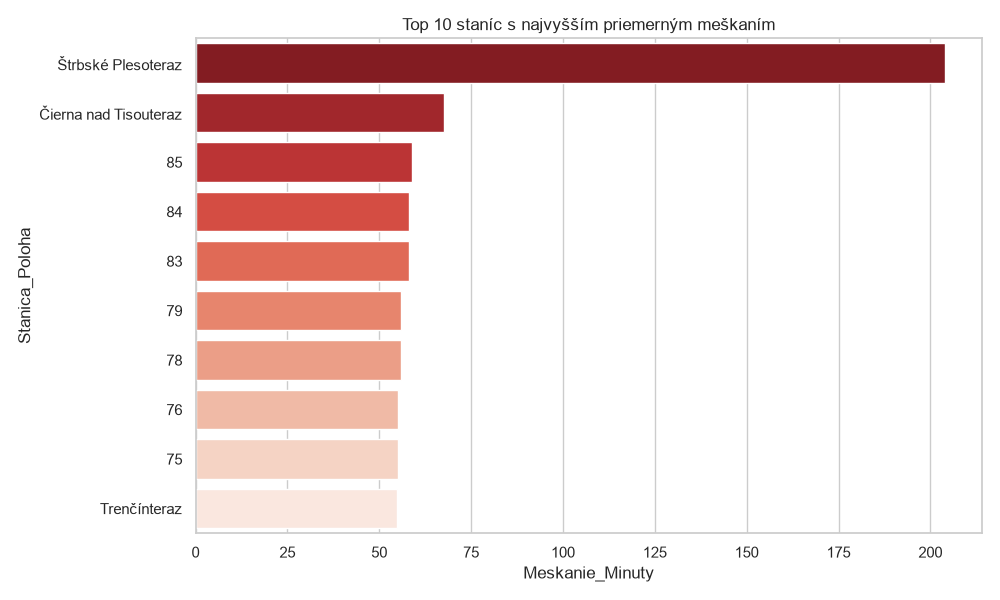
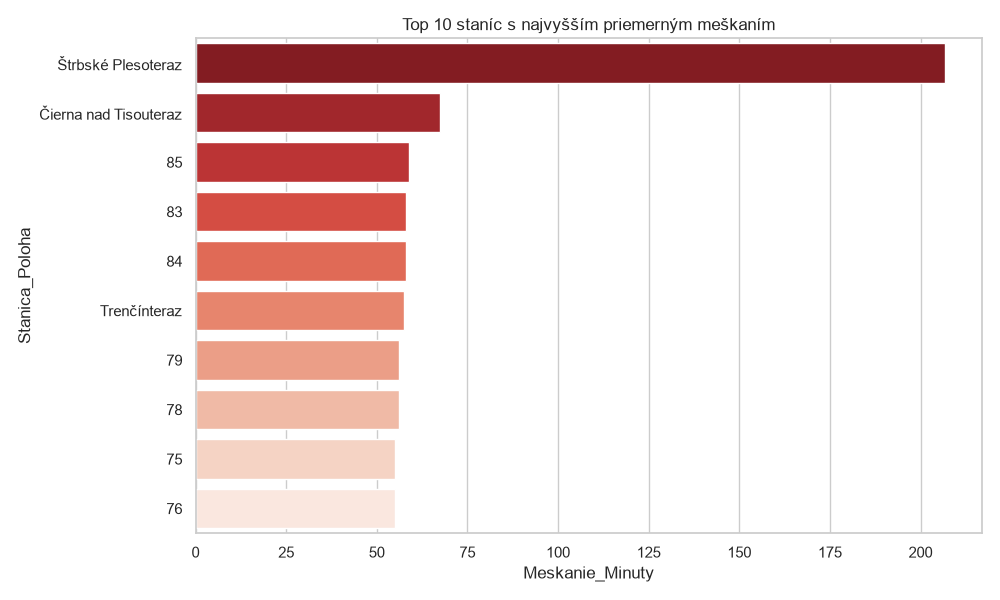
Aktualizácia histórie, štatistík a webu: 2026-10-23 09:31:32

diff --git a/index.html b/index.html
@@ -3,26 +3,48 @@
 <head>
     <meta charset="UTF-8">
     <meta name="viewport" content="width=device-width, initial-scale=1.0">
-    <title>Meškanie vlakov na Slovensku</title>
+    <title>Meškanie vlakov na Slovensku - Štatistiky a História</title>
     <style>
-        body { font-family: Arial, sans-serif; max-width: 900px; margin: 0 auto; padding: 20px; background-color: #f4f4f9; color: #333; }
+        body { font-family: Arial, sans-serif; max-width: 1000px; margin: 0 auto; padding: 20px; background-color: #f4f4f9; color: #333; }
         h1, h2 { color: #d9534f; }
         .card { background: white; padding: 20px; margin-bottom: 20px; border-radius: 8px; box-shadow: 0 2px 4px rgba(0,0,0,0.1); }
-        pre { background: #eee; padding: 10px; border-radius: 4px; font-size: 16px; white-space: pre-wrap; }
+        pre { background: #eee; padding: 15px; border-radius: 4px; font-size: 16px; white-space: pre-wrap; }
         img { width: 100%; height: auto; border-radius: 4px; margin-top: 10px; }
-        .footer { text-align: center; font-size: 12px; color: #77px; margin-top: 30px; }
+        table { width: 100%; border-collapse: collapse; margin-top: 10px; }
+        th, td { border: 1px solid #ddd; padding: 8px; text-align: left; }
+        th { background-color: #f2f2f2; }
+        .footer { text-align: center; font-size: 12px; color: #777; margin-top: 30px; }
     </style>
 </head>
 <body>
     <h1>🚂 Meškanie vlakov na Slovensku</h1>
-    <p>Automaticky aktualizovaný prehľad meškaní vlakov.</p>
+    <p>Detailná analýza, história a štatistiky meškaní vlakov zbierané v reálnom čase.</p>
 
     <div class="card">
-        <h2>📊 Aktuálne štatistiky</h2>
-        <pre>BLESKOVÁ ŠTATISTIKA MEŠKANÍ
-Celkový počet zaznamenaných dát: 172
-Priemerné meškanie na Slovensku: 29.90 min.
+        <h2>📊 Súhrnné štatistiky</h2>
+        <pre>KOMPLETNÁ ŠTATISTIKA MEŠKANÍ VLAKOV
+Celkový počet zaznamenaných meraní: 201
+Priemerné meškanie: 29.73 min.
+Maximálne zaznamenané meškanie: 226 min.
 </pre>
+    </div>
+
+    <div class="card">
+        <h2>🚆 Top 5 vlakov s najvyšším meškaním</h2>
+        <table>
+            <tr><th>Vlak</th><th>Priemerné meškanie (min)</th></tr>
+            <tr><td>Os 8102smer Štrbské Pleso</td><td>206.62</td></tr><tr><td>RJ 1222 REGIOJETsmer Čierna nad Tisou št. hr.</td><td>62.88</td></tr><tr><td>Os 5307smer Trenčín</td><td>57.62</td></tr><tr><td>mešká do 5 minút</td><td>56.50</td></tr><tr><td>EN 443 SLOVAKIAsmer Humenné</td><td>46.33</td></tr>
+        </table>
+    </div>
+
+    <div class="card">
+        <h2>📈 Historický vývoj meškania v čase</h2>
+        <img src="grafy/3_historicky_vyvoj.png" alt="Historický vývoj">
+    </div>
+
+    <div class="card">
+        <h2>📅 Meškanie podľa dní v týždni</h2>
+        <img src="grafy/4_dni_v_tyzdni.png" alt="Dni v týždni">
     </div>
 
     <div class="card">
@@ -31,12 +53,12 @@ Priemerné meškanie na Slovensku: 29.90 min.
     </div>
 
     <div class="card">
-        <h2>📈 Vývoj meškania počas dňa</h2>
+        <h2>⏰ Vývoj meškania počas dňa</h2>
         <img src="grafy/2_meskanie_pocas_dna.png" alt="Meškanie počas dňa">
     </div>
 
     <div class="footer">
-        Posledná aktualizácia: 2026-10-23 09:27:42
+        Posledná aktualizácia: 2026-10-23 09:31:32
     </div>
 </body>
 </html>
